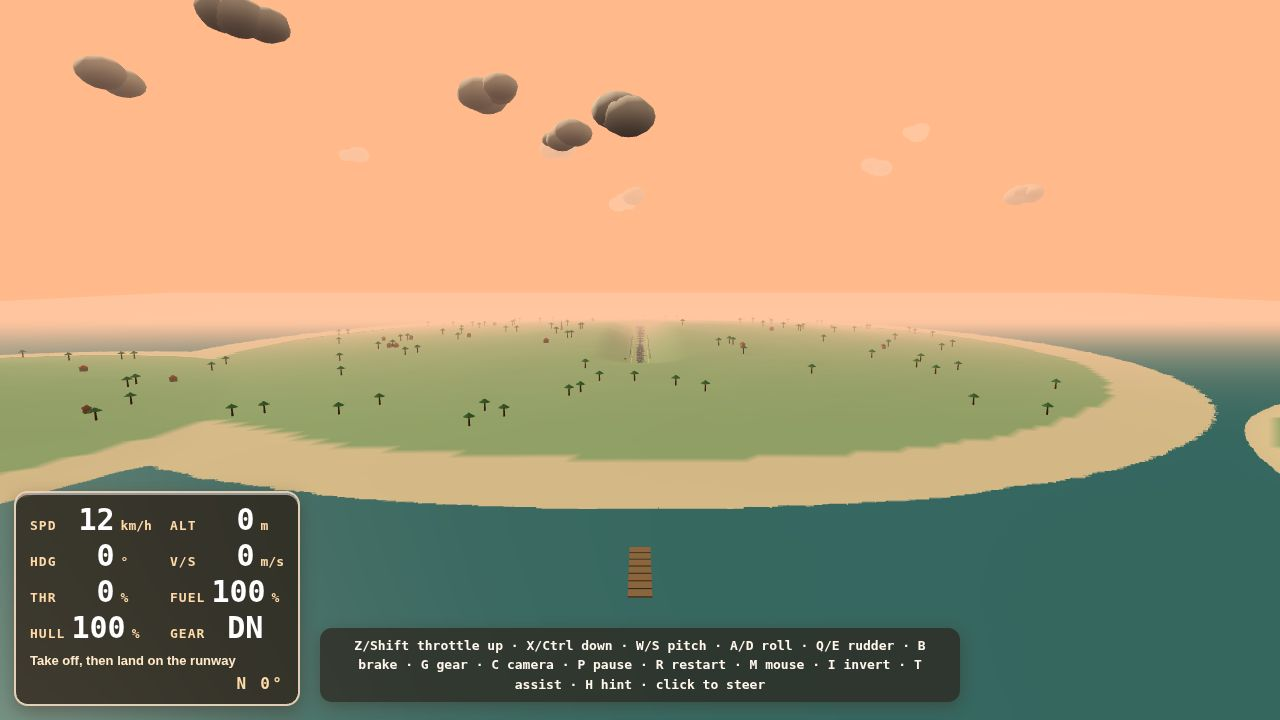
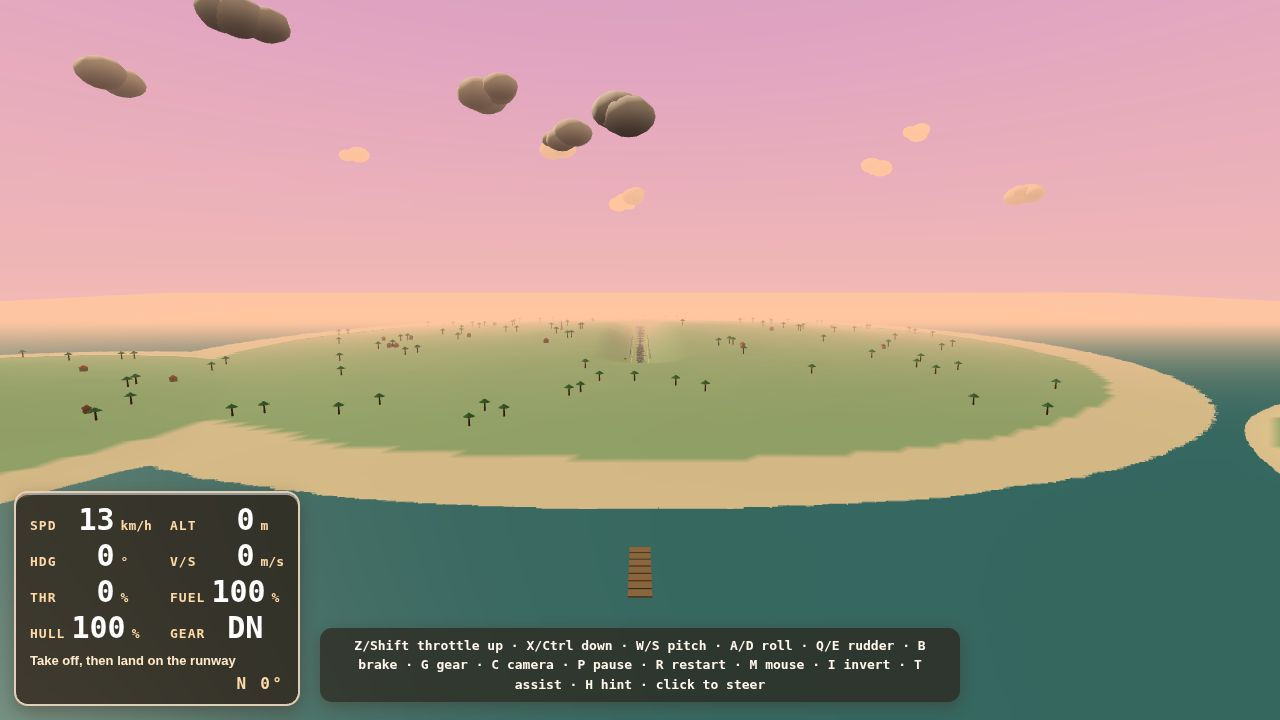
Cockpit: hide exterior mesh, pilot-eye camera with roll, clay panel + horizon dials, gradient sky

diff --git a/game/src/render/cockpit.js b/game/src/render/cockpit.js
@@ -1,0 +1,112 @@
+// Camera-attached clay cockpit: instrument panel, three lit dials (artificial
+// horizon, airspeed, altitude) and a canopy frame. Kept out of the near plane.
+
+export function buildCockpit(THREE, doc, camera) {
+  const group = new THREE.Group();
+  group.name = "cockpit";
+  const clay = (color) => new THREE.MeshStandardMaterial({ color, roughness: 0.92, metalness: 0 });
+
+  const panel = new THREE.Mesh(new THREE.BoxGeometry(1.8, 0.55, 0.16), clay(0x6b4a35));
+  panel.position.set(0, -0.64, -1.2);
+  panel.rotation.x = -0.24;
+  group.add(panel);
+
+  const shield = new THREE.Mesh(new THREE.BoxGeometry(1.9, 0.13, 0.34), clay(0x4a3325));
+  shield.position.set(0, -0.38, -1.08);
+  group.add(shield);
+
+  function makeDial(x, radius, draw) {
+    const canvas = doc.createElement("canvas");
+    canvas.width = canvas.height = 128;
+    const ctx = canvas.getContext("2d");
+    const tex = new THREE.CanvasTexture(canvas);
+    const mesh = new THREE.Mesh(
+      new THREE.CircleGeometry(radius, 32),
+      new THREE.MeshBasicMaterial({ map: tex, side: THREE.DoubleSide }),
+    );
+    mesh.position.set(x, -0.62, -1.05);
+    mesh.rotation.x = -0.24;
+    group.add(mesh);
+    return { ctx, tex, draw };
+  }
+
+  const horizon = makeDial(0, 0.18, (ctx, state) => {
+    ctx.clearRect(0, 0, 128, 128);
+    ctx.save();
+    ctx.translate(64, 64);
+    ctx.rotate(-state.roll);
+    const off = Math.max(-58, Math.min(58, state.pitch * 92));
+    ctx.translate(0, off);
+    ctx.fillStyle = "#5a9fd0";
+    ctx.fillRect(-100, -100, 200, 100);
+    ctx.fillStyle = "#a87544";
+    ctx.fillRect(-100, 0, 200, 100);
+    ctx.strokeStyle = "#fff4d6";
+    ctx.lineWidth = 3;
+    ctx.beginPath();
+    ctx.moveTo(-100, 0);
+    ctx.lineTo(100, 0);
+    ctx.stroke();
+    ctx.restore();
+    ctx.strokeStyle = "#ffd23f";
+    ctx.lineWidth = 3;
+    ctx.beginPath();
+    ctx.moveTo(45, 64);
+    ctx.lineTo(57, 64);
+    ctx.moveTo(71, 64);
+    ctx.lineTo(83, 64);
+    ctx.stroke();
+  });
+
+  const speed = makeDial(-0.48, 0.11, (ctx, state) => {
+    ctx.fillStyle = "#2a211c";
+    ctx.fillRect(0, 0, 128, 128);
+    ctx.strokeStyle = "#d9c9a8";
+    ctx.lineWidth = 4;
+    ctx.beginPath();
+    ctx.arc(64, 64, 54, 0, Math.PI * 2);
+    ctx.stroke();
+    ctx.fillStyle = "#f4ead2";
+    ctx.font = "bold 28px sans-serif";
+    ctx.textAlign = "center";
+    ctx.fillText(String(Math.round(state.speed * 3.6)), 64, 74);
+  });
+
+  const alt = makeDial(0.48, 0.11, (ctx, state, agl) => {
+    ctx.fillStyle = "#2a211c";
+    ctx.fillRect(0, 0, 128, 128);
+    ctx.strokeStyle = "#d9c9a8";
+    ctx.lineWidth = 4;
+    ctx.beginPath();
+    ctx.arc(64, 64, 54, 0, Math.PI * 2);
+    ctx.stroke();
+    ctx.fillStyle = "#f4ead2";
+    ctx.font = "bold 26px sans-serif";
+    ctx.textAlign = "center";
+    ctx.fillText(String(Math.max(0, Math.round(agl))), 64, 74);
+  });
+
+  const frameMat = clay(0x7a6555);
+  for (const sx of [-1, 1]) {
+    const bar = new THREE.Mesh(new THREE.BoxGeometry(0.045, 0.95, 0.045), frameMat);
+    bar.position.set(sx * 0.65, 0.08, -0.92);
+    group.add(bar);
+  }
+  const top = new THREE.Mesh(new THREE.BoxGeometry(1.35, 0.045, 0.045), frameMat);
+  top.position.set(0, 0.56, -0.92);
+  group.add(top);
+
+  camera.add(group);
+
+  return {
+    group,
+    update(state, agl) {
+      horizon.draw(horizon.ctx, state);
+      horizon.tex.needsUpdate = true;
+      speed.draw(speed.ctx, state);
+      speed.tex.needsUpdate = true;
+      alt.draw(alt.ctx, state, agl);
+      alt.tex.needsUpdate = true;
+    },
+  };
+}

diff --git a/game/src/main.js b/game/src/main.js
@@ -3,6 +3,7 @@ import { createFlightState, stepFlight } from "./flight-model.js";
 import { createInput } from "./input.js";
 import { createHud } from "./hud/hud.js";
 import { assembleScene } from "./render/scene.js";
+import { buildCockpit } from "./render/cockpit.js";
 
 const canvas = document.getElementById("game");
 const renderer = new THREE.WebGLRenderer({ canvas, antialias: true, preserveDrawingBuffer: true });
@@ -13,11 +14,14 @@ renderer.shadowMap.enabled = true;
 const scene = new THREE.Scene();
 const camera = new THREE.PerspectiveCamera(60, window.innerWidth / window.innerHeight, 0.1, 4000);
 camera.position.set(0, 20, -20);
+camera.near = 0.1;
+scene.add(camera);
 
 const seedParam = new URLSearchParams(location.search).get("seed");
 const seed = Number(seedParam) || 7;
 const shotMode = new URLSearchParams(location.search).get("shot") || "play";
 const world = assembleScene(THREE, scene, document, seed);
+const cockpit = buildCockpit(THREE, document, camera);
 const groundHeightAt = world.groundHeightAt;
 
 const startY = groundHeightAt(0, 0) + 1.6;
@@ -43,11 +47,13 @@ let frames = 0;
 let elapsed = 0;
 let propAngle = 0;
 let paused = false;
-let cameraMode = 0;
+let cameraMode = shotMode === "cockpit" ? 1 : 0;
 let restarts = 0;
 let hintForced = false;
 const camPos = new THREE.Vector3(state.x, state.y + 8, state.z - 16);
 const camLook = new THREE.Vector3(state.x, state.y, state.z);
+const EYE = new THREE.Vector3(0, 0.55, 0.3);
+const COCKPIT_YAW = new THREE.Quaternion().setFromAxisAngle(new THREE.Vector3(0, 1, 0), Math.PI);
 
 function resetMission() {
   Object.assign(state, createFlightState({ x: 0, y: groundHeightAt(0, 0) + 1.6, z: 0, heading: 0 }));
@@ -94,6 +100,9 @@ function tick() {
   air.rotation.z = state.roll;
   world.prop.rotation.z = propAngle;
   world.wheels.visible = state.gearDown;
+  const cockpitMode = cameraMode === 1;
+  air.visible = !cockpitMode;
+  cockpit.group.visible = cockpitMode;
 
   if (shotMode === "start") {
     camera.position.set(0, 120, -800);
@@ -121,18 +130,16 @@ function tick() {
     camLook.lerp(look, 1 - Math.pow(0.0002, dt));
     camera.lookAt(camLook);
   } else {
-    camera.position.set(state.x, state.y + 0.6, state.z);
-    camera.lookAt(
-      state.x + Math.sin(state.heading) * 6,
-      state.y + 0.6 - Math.sin(state.pitch) * 6,
-      state.z + Math.cos(state.heading) * 6,
-    );
+    air.updateMatrixWorld(true);
+    camera.position.copy(EYE).applyMatrix4(air.matrixWorld);
+    camera.quaternion.copy(air.quaternion).multiply(COCKPIT_YAW);
   }
 
   hud.update(state, agl);
+  if (cockpitMode) cockpit.update(state, agl);
   if (paused) hud.el.classList.add("paused"); else hud.el.classList.remove("paused");
 
-  window.__DEBUG__ = { controls: c, state: state, cameraMode: cameraMode, restarts: restarts, keys: Array.from(input.keys), agl: agl, calls: renderer.info.render.calls };
+  window.__DEBUG__ = { controls: c, state: state, cameraMode: cameraMode, cockpit: cockpitMode, exteriorVisible: air.visible, near: camera.near, restarts: restarts, keys: Array.from(input.keys), agl: agl, calls: renderer.info.render.calls };
 
   renderer.render(scene, camera);
   frames += 1;

diff --git a/game/src/world/sky.js b/game/src/world/sky.js
@@ -1,8 +1,27 @@
 // Sunset sky helpers: sun light + cotton-ball clouds as instanced spheres.
 
-export function buildSky(THREE, scene) {
+export function buildSky(THREE, scene, doc) {
   scene.background = new THREE.Color(0xffb98a);
   scene.fog = new THREE.Fog(new THREE.Color(0xffc6a0), 400, 1500);
+
+  const domeCanvas = doc.createElement("canvas");
+  domeCanvas.width = 4;
+  domeCanvas.height = 256;
+  const g = domeCanvas.getContext("2d");
+  const grad = g.createLinearGradient(0, 0, 0, 256);
+  grad.addColorStop(0, "#6f3a86");
+  grad.addColorStop(0.34, "#c05f88");
+  grad.addColorStop(0.58, "#f28a6b");
+  grad.addColorStop(0.74, "#ffc48c");
+  grad.addColorStop(1, "#8f6270");
+  g.fillStyle = grad;
+  g.fillRect(0, 0, 4, 256);
+  const dome = new THREE.Mesh(
+    new THREE.SphereGeometry(1800, 32, 16),
+    new THREE.MeshBasicMaterial({ map: new THREE.CanvasTexture(domeCanvas), side: THREE.BackSide, depthWrite: false, fog: false }),
+  );
+  dome.name = "sky-dome";
+  scene.add(dome);
 
   scene.add(new THREE.HemisphereLight(0xffe0c0, 0x5a4a48, 0.85));
   const sun = new THREE.DirectionalLight(0xfff0d0, 2.1);

diff --git a/game/src/render/scene.js b/game/src/render/scene.js
@@ -35,7 +35,7 @@ export function assembleScene(THREE, scene, doc, seed) {
   const matFactory = (color) =>
     new THREE.MeshStandardMaterial({ color, roughness: 0.86, metalness: 0.02, bumpMap: bump, bumpScale: 0.02 });
 
-  buildSky(THREE, scene);
+  buildSky(THREE, scene, doc);
   const terrain = buildTerrainMesh(THREE);
   scene.add(terrain);
   scene.add(buildWater(THREE, matFactory));
